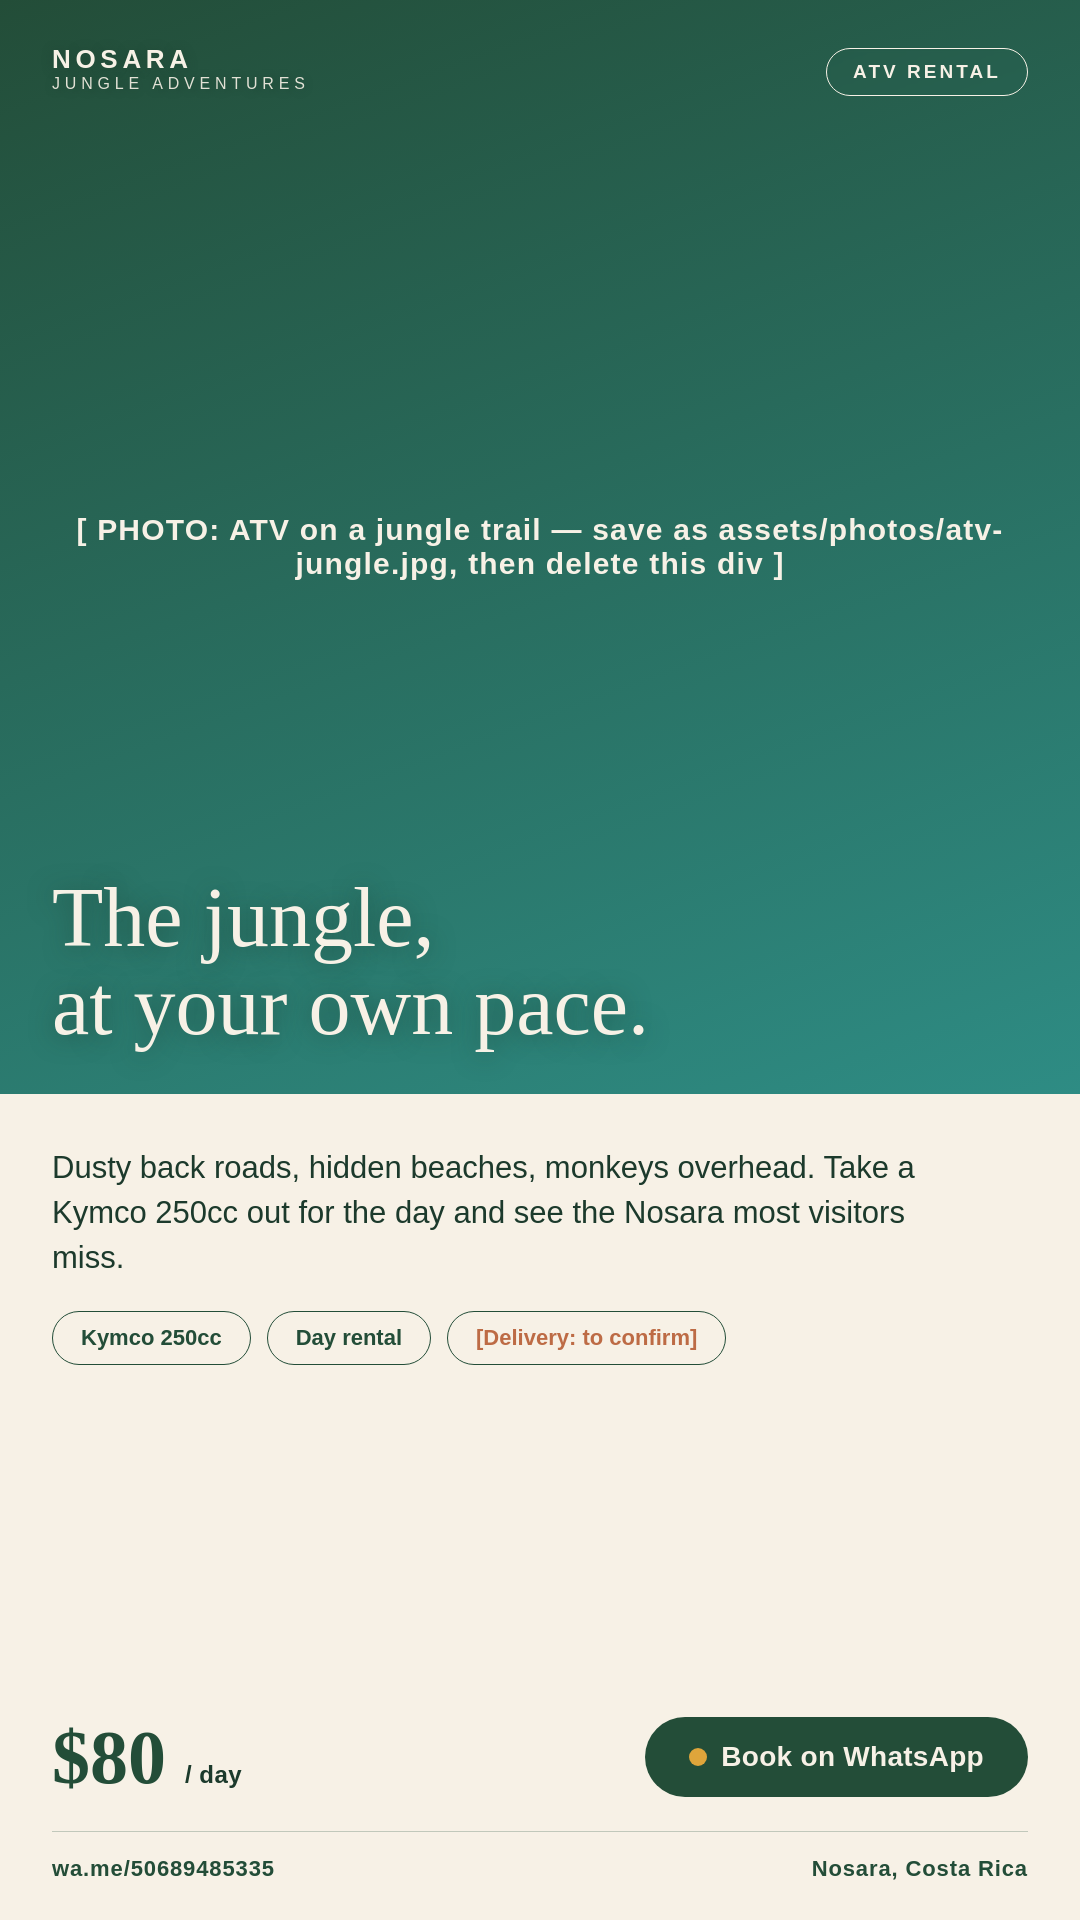
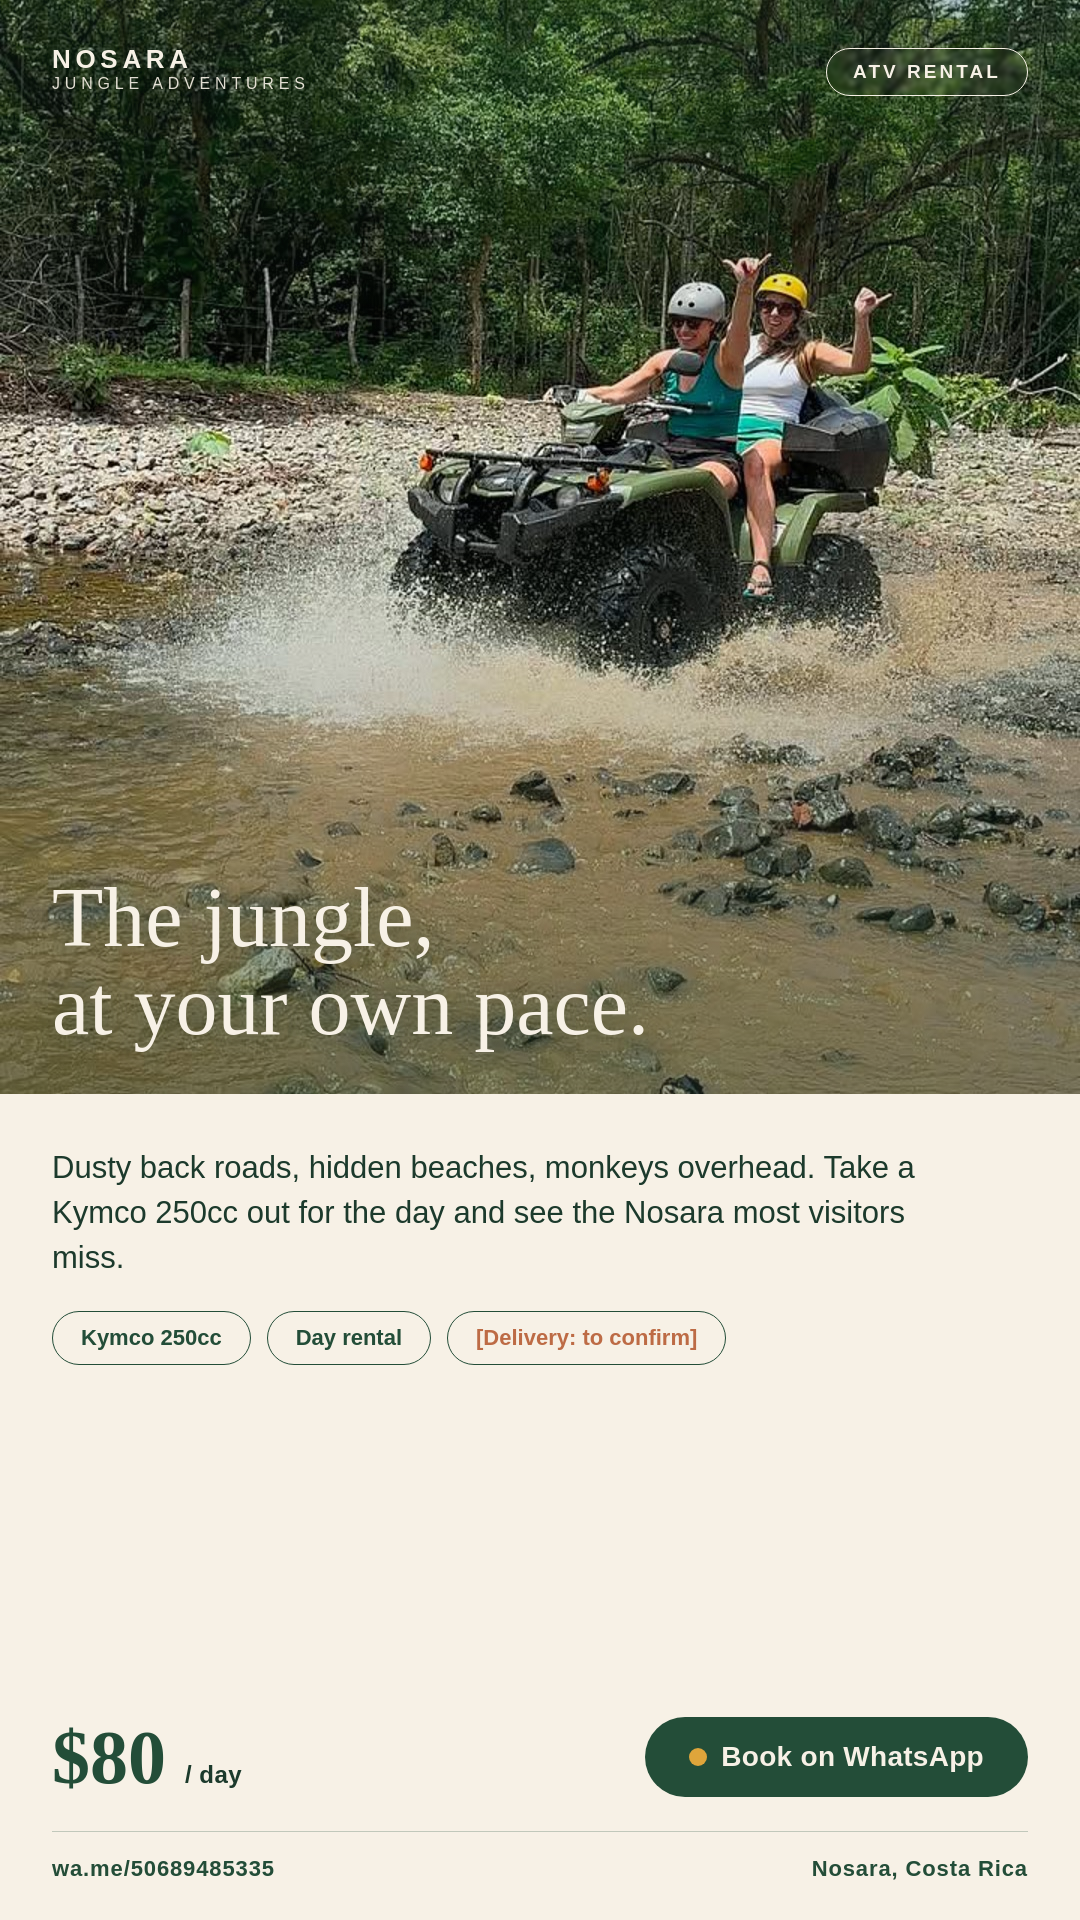
Add real photos for ATV, coffee, turtle, transport, and Guaitil flyers

diff --git a/templates/flyer-nja-turtle.html b/templates/flyer-nja-turtle.html
@@ -8,10 +8,9 @@
 <body>
 <div class="flyer">
 
-  <!-- Hero photo: assets/photos/turtle-arribada.jpg (not in repo yet) -->
+  <!-- Hero photo: assets/photos/turtle-hero.jpg -->
   <!-- Voice note: the arribada is a natural event. We never promise it — we frame the privilege of being there. -->
-  <div class="hero" style="background-image: url('../assets/photos/turtle-arribada.jpg');">
-    <div class="photo-slot">[ PHOTO: turtles on Ostional beach — save as assets/photos/turtle-arribada.jpg, then delete this div ]</div>
+  <div class="hero" style="background-image: url('../assets/photos/turtle-hero.jpg');">
     <div class="brand-mark">Nosara<small>Jungle Adventures</small></div>
     <div class="badge">Ostional</div>
     <div class="headline">When the ocean<br>comes ashore.</div>

diff --git a/templates/flyer-nft-transport.html b/templates/flyer-nft-transport.html
@@ -8,10 +8,9 @@
 <body>
 <div class="flyer">
 
-  <!-- Hero photo: assets/photos/transport.jpg (not in repo yet) -->
+  <!-- Hero photo: assets/photos/transport-hero.jpg -->
   <!-- General flyer: NO route list here (that's the rate sheet). "From $60" = Local Nosara, confirmed. -->
-  <div class="hero" style="background-image: url('../assets/photos/transport.jpg');">
-    <div class="photo-slot">[ PHOTO: Montero or van on the road / beach drop-off — save as assets/photos/transport.jpg, then delete this div ]</div>
+  <div class="hero" style="background-image: url('../assets/photos/transport-hero.jpg');">
     <div class="brand-mark">Nosara<small>Fun Travel</small></div>
     <div class="badge">Transportation</div>
     <div class="headline">Get anywhere,<br>door to door.</div>

diff --git a/templates/flyer-nja-guaitil.html b/templates/flyer-nja-guaitil.html
@@ -14,9 +14,8 @@
        Do not export/send until CONFIRM markers are resolved and this comment is removed.
        ============================================================ -->
 
-  <!-- Hero photo: assets/photos/guaitil-hero.jpg (not in repo yet) -->
+  <!-- Hero photo: assets/photos/guaitil-hero.jpg -->
   <div class="hero" style="background-image: url('../assets/photos/guaitil-hero.jpg');">
-    <div class="photo-slot">[ PHOTO: Guaitil potter's hands shaping clay — save as assets/photos/guaitil-hero.jpg, then delete this div ]</div>
     <div class="brand-mark">Nosara<small>Jungle Adventures</small></div>
     <div class="badge" style="border-color: var(--clay); color: var(--clay);">Draft</div>
     <div class="headline">Clay shaped by<br>a thousand years.</div>

diff --git a/templates/flyer-nja-coffee.html b/templates/flyer-nja-coffee.html
@@ -8,9 +8,8 @@
 <body>
 <div class="flyer">
 
-  <!-- Hero photo: assets/photos/coffee-tour.jpg (not in repo yet) -->
-  <div class="hero" style="background-image: url('../assets/photos/coffee-tour.jpg');">
-    <div class="photo-slot">[ PHOTO: UTV or coffee farm in the hills — save as assets/photos/coffee-tour.jpg, then delete this div ]</div>
+  <!-- Hero photo: assets/photos/coffee-hero.jpg -->
+  <div class="hero" style="background-image: url('../assets/photos/coffee-hero.jpg');">
     <div class="brand-mark">Nosara<small>Jungle Adventures</small></div>
     <div class="badge">Private Tour</div>
     <div class="headline">From jungle trail<br>to coffee cup.</div>

diff --git a/templates/flyer-nja-atv.html b/templates/flyer-nja-atv.html
@@ -8,9 +8,8 @@
 <body>
 <div class="flyer">
 
-  <!-- Hero photo: assets/photos/atv-jungle.jpg (not in repo yet) -->
-  <div class="hero" style="background-image: url('../assets/photos/atv-jungle.jpg');">
-    <div class="photo-slot">[ PHOTO: ATV on a jungle trail — save as assets/photos/atv-jungle.jpg, then delete this div ]</div>
+  <!-- Hero photo: assets/photos/atv-hero.jpg -->
+  <div class="hero" style="background-image: url('../assets/photos/atv-hero.jpg');">
     <div class="brand-mark">Nosara<small>Jungle Adventures</small></div>
     <div class="badge">ATV Rental</div>
     <div class="headline">The jungle,<br>at your own pace.</div>

diff --git a/TODO.md b/TODO.md
@@ -1,6 +1,6 @@
 # TODO — living backlog
 
-Updated: 2026-07-21 (session: WhatsApp number confirmed + Guaitil draft)
+Updated: 2026-07-21 (session: real photos in for 5 of 7 flyers)
 
 ## ✅ Done
 
@@ -10,11 +10,12 @@ Updated: 2026-07-21 (session: WhatsApp number confirmed + Guaitil draft)
 - 7 flyer templates: NJA ATV, turtle arribada, coffee tour, waterfall, Guaitil pottery (draft) · NFT transport, general
 - `scripts/export.js` + `npm run export` (1080×1350) and `npm run export:story` (1080×1920) — verified working for all 7 pieces, both formats
 - WhatsApp number confirmed (+506 8948 5335, Yerly, shared NFT/NJA) — updated in `data/services.json` and every flyer footer
+- Real photos in place for 5 flyers: `atv-hero.jpg`, `coffee-hero.jpg`, `turtle-hero.jpg`, `transport-hero.jpg`, `guaitil-hero.jpg` — `.photo-slot` placeholders removed, all re-exported and checked
 - `docs/brand-system.md` + `docs/whatsapp-playbook.md`
 
 ## ▶ Next
 
-- [ ] Swap placeholder photo slots for real photos as Brandon sends them (atv-jungle.jpg, turtle-arribada.jpg, coffee-tour.jpg, waterfall.jpg, transport.jpg, nosara-general.jpg, guaitil-hero.jpg) — delete each `.photo-slot` div once its photo is in
+- [ ] Still need real photos for: waterfall/jungle ride flyer, NFT general flyer (`nosara-general.jpg`)
 - [ ] Quote flyer template (client name, route/experience, date, pax, vehicle, inclusions, price, CTA — may use the deep-green/gold panel)
 - [ ] Property manager / Airbnb host one-pager service sheet
 - [ ] Rate sheet with the full NFT transport route list
